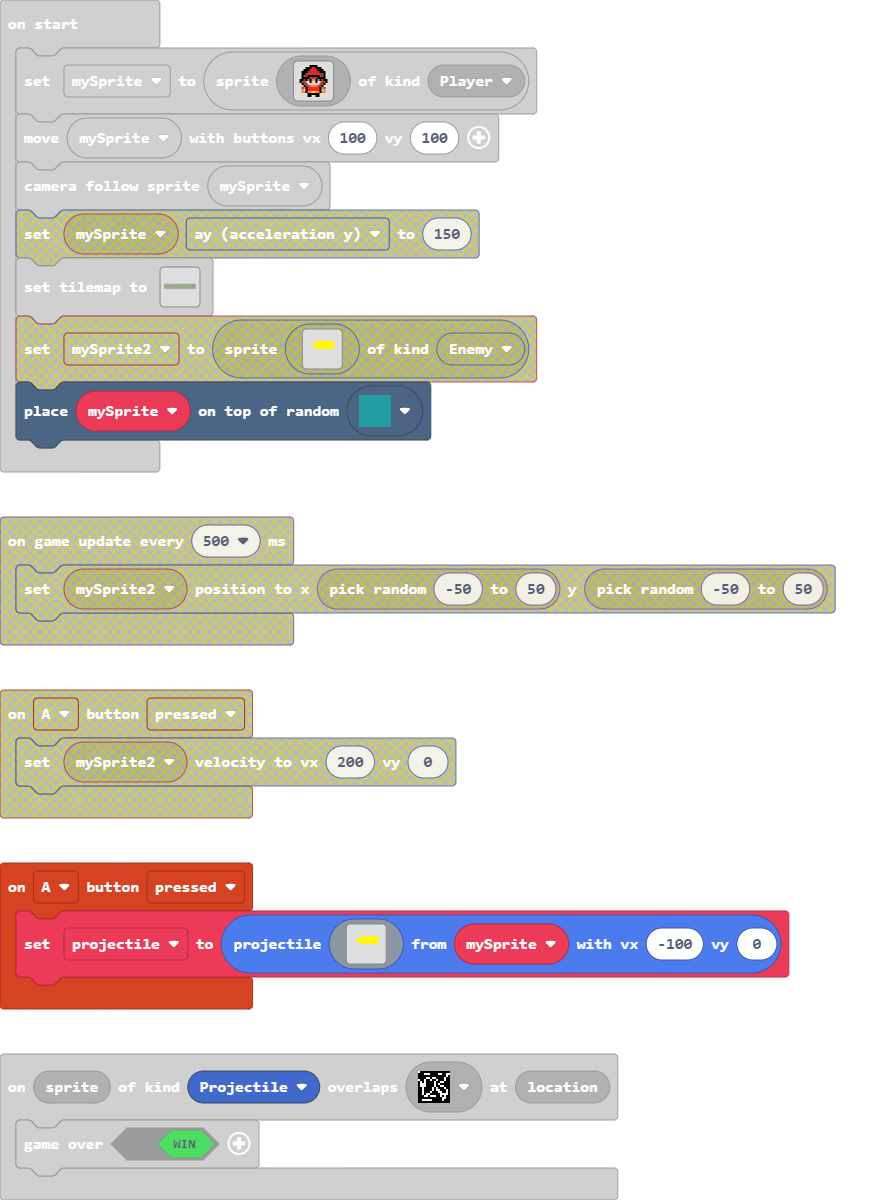
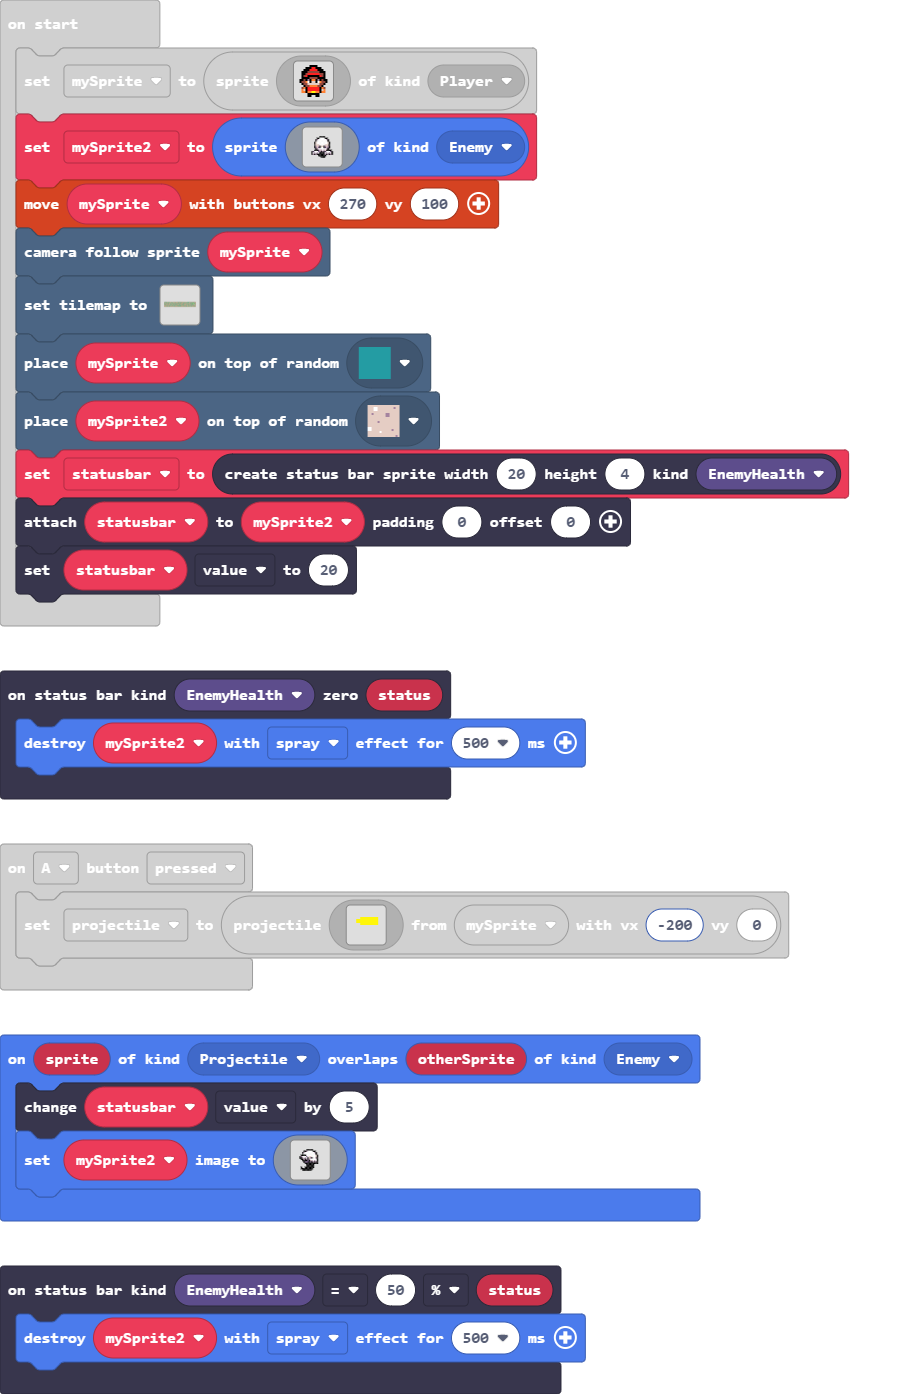
Update pxt.json, main.blocks, main.ts, images.g.jres, images.g.ts, tilemap.g.jres, tilemap.g.ts

diff --git a/tilemap.g.ts b/tilemap.g.ts
@@ -11,19 +11,6 @@ namespace myTiles {
 
     helpers._registerFactory("tilemap", function(name: string) {
         switch(helpers.stringTrim(name)) {
-            case "level1":
[1 lines of base64/hex data omitted]
-...22.....22...........2.....22..................222....2.........
-....2.2..22....222.....2......2...222....2...2222222...22..222....
-22..222.22....22.22....2......2..22.....22222......2..22..22.222..
-.2.......2....2...222..2..2.222..2......2.....2.2.....2..2.....2..
-.2......22...22.....2..2222.2...22.....22.....2.222...2.2222...22.
-.2222...2....2222.222...........2.....222.....2...22.......2......
-....2................22222.2...22.222.2.2.....2....22.222222.22...
-.......2..22222.222222.....2222.222......2...22....22...2.....2...
-......22...2.........2.......22.222......22..22....2....2.....2...
-......2....2..........2.......................2....2....2.....2...
-`, [myTiles.transparency16,myTiles.tile1,myTiles.tile3,sprites.builtin.forestTiles0,myTiles.tile2], TileScale.Sixteen);
             case "level2":
             case "level2":return tiles.createTilemap(hex`1000100000000000000000000000000000000000000000000000000000000000000000000000000000000000000000000000000000000000000000000000000000000000000000000000000000000000000000000000000000000000000000000000000000000000000000000000000000000000000000000000000000000000000000000000000000000000000000000000000000000000000000000000000000000000000000000000000000000000000000000000000000000000000000000000000000000000000000000000000000000000000000000000000000000000000000000000000000000000000000000000000000000000000000000000000000000000`, img`
 . . . . . . . . . . . . . . . . 
@@ -62,6 +49,19 @@ namespace myTiles {
 . . . . . . . . . . . . . . . . 
 . . . . . . . . . . . . . . . . 
 `, [myTiles.transparency16], TileScale.Sixteen);
+            case "level1":
[1 lines of base64/hex data omitted]
+...22.....22...........2.....22..................222....2.........
+....2.2..22....222.....2......2...222....2...2222222...22..222....
+22..222.22....22.22....2......2..22.....22222......2..22..22.222..
+.2.......2....2...222..2..2.222..2......2.....2.2.....2..2.....2..
+.2......22...22.....2..2222.2...22.....22.....2.222...2.2222...22.
+.2222...2....2222.222...........2.....222.....2...22.......2......
+....2................22222.2...22.222.2.2.....2....22.222222.22...
+.......2..22222.222222.....2222.222......2...22....22...2.....2...
+......22...2.........2.......22.222......22..22....2....2.....2...
+......2....2..........2.......................2....2....2.....2...
+`, [myTiles.transparency16,myTiles.tile1,myTiles.tile3,sprites.builtin.forestTiles0,myTiles.tile2,sprites.castle.tilePath5,sprites.castle.tileGrass1], TileScale.Sixteen);
         }
         return null;
     })

diff --git a/images.g.ts b/images.g.ts
@@ -3,24 +3,6 @@ namespace myImages {
 
     helpers._registerFactory("image", function(name: string) {
         switch(helpers.stringTrim(name)) {
-            case "image4":return img`
-. . . . . . . . . . . . . . . . 
-. . . . . . . . . . . . . . . . 
-. . . . . . . . . . . . . . . . 
-. . . . . . . . . . . . . . . . 
-. . . . . 5 5 5 5 5 5 5 5 5 . . 
-. . . 5 5 5 5 5 5 5 5 5 5 5 . . 
-. . . 5 5 5 5 5 5 5 5 5 5 5 . . 
-. . . . . 5 5 5 5 5 5 5 5 5 . . 
-. . . . . . . . . . . . . . . . 
-. . . . . . . . . . . . . . . . 
-. . . . . . . . . . . . . . . . 
-. . . . . . . . . . . . . . . . 
-. . . . . . . . . . . . . . . . 
-. . . . . . . . . . . . . . . . 
-. . . . . . . . . . . . . . . . 
-. . . . . . . . . . . . . . . . 
-`;
             case "image2":return img`
 . . . . f f f f f f . . . . . . 
 . . . f 2 f e e e e f f . . . . 
@@ -75,7 +57,7 @@ namespace myImages {
 . . . . . f f f f f f . . . . . 
 . . . . . f f . . f f . . . . . 
 `;
-            case "image5":return img`
+            case "image4":return img`
 . . . . . . . . . . . . . . . . 
 . . . . . . . . . . . . . . . . 
 . . . . . . . . . . . . . . . . 
@@ -93,59 +75,57 @@ namespace myImages {
 . . . . . . . . . . . . . . . . 
 . . . . . . . . . . . . . . . . 
 `;
-            case "image6":return img`
-. . . . . . . . . . . . . . . . 
-. . . . . . . . . . . . . . . . 
-. . . . . . . . . . . . . . . . 
-. . . . . . . . . . . . . . . . 
-. . . . . 5 5 5 5 5 5 5 5 5 . . 
-. . . 5 5 5 5 5 5 5 5 5 5 5 . . 
-. . . 5 5 5 5 5 5 5 5 5 5 5 . . 
-. . . . . 5 5 5 5 5 5 5 5 5 . . 
-. . . . . . . . . . . . . . . . 
-. . . . . . . . . . . . . . . . 
-. . . . . . . . . . . . . . . . 
-. . . . . . . . . . . . . . . . 
-. . . . . . . . . . . . . . . . 
-. . . . . . . . . . . . . . . . 
-. . . . . . . . . . . . . . . . 
-. . . . . . . . . . . . . . . . 
+            case "image5":return img`
+........................
+........................
+........................
+........................
+..........ffff..........
+........ff1111ff........
+.......fb111111bf.......
+.......f11111111f.......
+......fd11111111df......
+......fd11111111df......
+......fddd1111dddf......
+......fbdbfddfbdbf......
+......fcdcf11fcdcf......
+.......fb111111bf.......
+......fffcdb1bdffff.....
+....fc111cbfbfc111cf....
+....f1b1b1ffff1b1b1f....
+....fbfbffffffbfbfbf....
+.........ffffff.........
+...........fff..........
+........................
+........................
+........................
+........................
 `;
             case "image7":return img`
-. . . . . . . . . . . . . . . . 
-. . . . . . . . . . . . . . . . 
-. . . . . . . . . . . . . . . . 
-. . . . . . . . . . . . . . . . 
-. . . . . 5 5 5 5 5 5 5 5 5 . . 
-. . . 5 5 5 5 5 5 5 5 5 5 5 . . 
-. . . 5 5 5 5 5 5 5 5 5 5 5 . . 
-. . . . . 5 5 5 5 5 5 5 5 5 . . 
-. . . . . . . . . . . . . . . . 
-. . . . . . . . . . . . . . . . 
-. . . . . . . . . . . . . . . . 
-. . . . . . . . . . . . . . . . 
-. . . . . . . . . . . . . . . . 
-. . . . . . . . . . . . . . . . 
-. . . . . . . . . . . . . . . . 
-. . . . . . . . . . . . . . . . 
-`;
-            case "image8":return img`
-. . . . . . . . . . . . . . . . 
-. . . . . . . . . . . . . . . . 
-. . . . . . . . . . . . . . . . 
-. . . . . . . . . . . . . . . . 
-. . . . . 5 5 5 5 5 5 5 5 5 . . 
-. . . 5 5 5 5 5 5 5 5 5 5 5 . . 
-. . . 5 5 5 5 5 5 5 5 5 5 5 . . 
-. . . . . 5 5 5 5 5 5 5 5 5 . . 
-. . . . . . . . . . . . . . . . 
-. . . . . . . . . . . . . . . . 
-. . . . . . . . . . . . . . . . 
-. . . . . . . . . . . . . . . . 
-. . . . . . . . . . . . . . . . 
-. . . . . . . . . . . . . . . . 
-. . . . . . . . . . . . . . . . 
-. . . . . . . . . . . . . . . . 
+........................
+........................
+........................
+........................
+.........fffff..........
+.......ffb1111ff........
+......fb1111111bf.......
+......f111111111f.......
+.....ffff1111111df......
+....fb111c1dd111df......
+....ffb1b1fdcf11bf......
+.....ffbfbfb11111f......
+......ffffcfdb1b1f......
+.......fcccfcfbfbf......
+........ffffffffff......
+.........ffffff.........
+.........ffffff.........
+.....f..fffffff.........
+.....fffffffff..........
+......fffffff...........
+........................
+........................
+........................
+........................
 `;
         }
         return null;

diff --git a/main.ts b/main.ts
@@ -1,3 +1,6 @@
+statusbars.onStatusReached(StatusBarKind.EnemyHealth, statusbars.StatusComparison.EQ, statusbars.ComparisonType.Percentage, 50, function (status) {
+    mySprite2.destroy()
+})
 controller.A.onEvent(ControllerButtonEvent.Pressed, function () {
     projectile = sprites.createProjectileFromSprite(img`
         . . . . . . . . . . . . . . . . 
@@ -16,7 +19,7 @@ controller.A.onEvent(ControllerButtonEvent.Pressed, function () {
         . . . . . . . . . . . . . . . . 
         . . . . . . . . . . . . . . . . 
         . . . . . . . . . . . . . . . . 
-        `, mySprite, -100, 0)
+        `, mySprite, -200, 0)
 })
 controller.left.onEvent(ControllerButtonEvent.Pressed, function () {
     mySprite.setImage(img`
@@ -37,6 +40,9 @@ controller.left.onEvent(ControllerButtonEvent.Pressed, function () {
         . . . . f f f f f f . . . . . . 
         . . . . . . f f f . . . . . . . 
         `)
+})
+statusbars.onZero(StatusBarKind.EnemyHealth, function (status) {
+    mySprite2.destroy(effects.spray, 500)
 })
 controller.right.onEvent(ControllerButtonEvent.Pressed, function () {
     mySprite.setImage(img`
@@ -61,7 +67,38 @@ controller.right.onEvent(ControllerButtonEvent.Pressed, function () {
 scene.onOverlapTile(SpriteKind.Projectile, assets.tile`myTile1`, function (sprite, location) {
     game.over(true)
 })
+sprites.onOverlap(SpriteKind.Projectile, SpriteKind.Enemy, function (sprite, otherSprite) {
+    statusbar.value += 5
+    mySprite2.setImage(img`
+        ........................
+        ........................
+        ........................
+        ........................
+        .........fffff..........
+        .......ffb1111ff........
+        ......fb1111111bf.......
+        ......f111111111f.......
+        .....ffff1111111df......
+        ....fb111c1dd111df......
+        ....ffb1b1fdcf11bf......
+        .....ffbfbfb11111f......
+        ......ffffcfdb1b1f......
+        .......fcccfcfbfbf......
+        ........ffffffffff......
+        .........ffffff.........
+        .........ffffff.........
+        .....f..fffffff.........
+        .....fffffffff..........
+        ......fffffff...........
+        ........................
+        ........................
+        ........................
+        ........................
+        `)
+})
 let projectile: Sprite = null
+let statusbar: StatusBarSprite = null
+let mySprite2: Sprite = null
 let mySprite: Sprite = null
 mySprite = sprites.create(img`
     . . . . . . f f f f . . . . . . 
@@ -81,7 +118,37 @@ mySprite = sprites.create(img`
     . . . . . f f f f f f . . . . . 
     . . . . . f f . . f f . . . . . 
     `, SpriteKind.Player)
-controller.moveSprite(mySprite, 100, 100)
+mySprite2 = sprites.create(img`
+    ........................
+    ........................
+    ........................
+    ........................
+    ..........ffff..........
+    ........ff1111ff........
+    .......fb111111bf.......
+    .......f11111111f.......
+    ......fd11111111df......
+    ......fd11111111df......
+    ......fddd1111dddf......
+    ......fbdbfddfbdbf......
+    ......fcdcf11fcdcf......
+    .......fb111111bf.......
+    ......fffcdb1bdffff.....
+    ....fc111cbfbfc111cf....
+    ....f1b1b1ffff1b1b1f....
+    ....fbfbffffffbfbfbf....
+    .........ffffff.........
+    ...........fff..........
+    ........................
+    ........................
+    ........................
+    ........................
+    `, SpriteKind.Enemy)
+controller.moveSprite(mySprite, 270, 100)
 scene.cameraFollowSprite(mySprite)
 tiles.setTilemap(tilemap`level1`)
 tiles.placeOnRandomTile(mySprite, assets.tile`myTile0`)
+tiles.placeOnRandomTile(mySprite2, sprites.castle.tilePath5)
+statusbar = statusbars.create(20, 4, StatusBarKind.EnemyHealth)
+statusbar.attachToSprite(mySprite2)
+statusbar.value = 20
